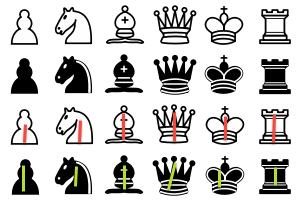
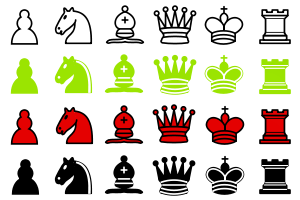
server logic fixes, figure layer on drag fixed, move figures on click implemented

diff --git a/public/js/board.js b/public/js/board.js
@@ -2,26 +2,26 @@ var Board = function(importedBoard){
 	//-2 > No tile drawn // -1 > No figure on tile
 	//stadart constructor if no board is imported
 	if(typeof importedBoard === "undefined") {
-			this.board = [[-2,-2,-2,new Figure(FigureType.ROOK, Color.BLACK),new Figure(FigureType.KNIGHT, Color.BLACK),new Figure(FigureType.BISHOP,Color.BLACK),new Figure(FigureType.KING,Color.BLACK),new Figure(FigureType.QUEEN,Color.BLACK),new Figure(FigureType.BISHOP,Color.BLACK),new Figure(FigureType.KNIGHT,Color.BLACK),new Figure(FigureType.ROOK,Color.BLACK),-2,-2,-2],
-			[-2,-2,-2,new Figure(FigureType.PAWN,Color.BLACK),new Figure(FigureType.PAWN,Color.BLACK),new Figure(FigureType.PAWN,Color.BLACK),new Figure(FigureType.PAWN,Color.BLACK),new Figure(FigureType.PAWN,Color.BLACK),new Figure(FigureType.PAWN,Color.BLACK),new Figure(FigureType.PAWN,Color.BLACK),new Figure(FigureType.PAWN,Color.BLACK),-2,-2,-2],
-			[-2,-2,-2,-1,-1,-1,-1,-1,-1,-1,-1,-2,-2,-2],
-			[new Figure(FigureType.ROOK,Color.RED),new Figure(FigureType.PAWN,Color.RED),-1,-1,-1,-1,-1,-1,-1,-1,-1,-1,new Figure(FigureType.PAWN,Color.GREEN),new Figure(FigureType.ROOK,Color.GREEN)],
-			[new Figure(FigureType.KNIGHT,Color.RED),new Figure(FigureType.PAWN,Color.RED),-1,-1,-1,-1,-1,-1,-1,-1,-1,-1,new Figure(FigureType.PAWN,Color.GREEN),new Figure(FigureType.KNIGHT,Color.GREEN)],
-			[new Figure(FigureType.BISHOP,Color.RED),new Figure(FigureType.PAWN,Color.RED),-1,-1,-1,-1,-1,-1,-1,-1,-1,-1,new Figure(FigureType.PAWN,Color.GREEN),new Figure(FigureType.BISHOP,Color.GREEN)],
-			[new Figure(FigureType.KING,Color.RED),new Figure(FigureType.PAWN,Color.RED),-1,-1,-1,-1,-1,-1,-1,-1,-1,-1,new Figure(FigureType.PAWN,Color.GREEN),new Figure(FigureType.QUEEN,Color.GREEN)],
-			[new Figure(FigureType.QUEEN,Color.RED),new Figure(FigureType.PAWN,Color.RED),-1,-1,-1,-1,-1,-1,-1,-1,-1,-1,new Figure(FigureType.PAWN,Color.GREEN),new Figure(FigureType.KING,Color.GREEN)],
-			[new Figure(FigureType.BISHOP,Color.RED),new Figure(FigureType.PAWN,Color.RED),-1,-1,-1,-1,-1,-1,-1,-1,-1,-1,new Figure(FigureType.PAWN,Color.GREEN),new Figure(FigureType.BISHOP,Color.GREEN)],
-			[new Figure(FigureType.KNIGHT,Color.RED),new Figure(FigureType.PAWN,Color.RED),-1,-1,-1,-1,-1,-1,-1,-1,-1,-1,new Figure(FigureType.PAWN,Color.GREEN),new Figure(FigureType.KNIGHT,Color.GREEN)],
-			[new Figure(FigureType.ROOK,Color.RED),new Figure(FigureType.PAWN,Color.RED),-1,-1,-1,-1,-1,-1,-1,-1,-1,-1,new Figure(FigureType.PAWN,Color.GREEN),new Figure(FigureType.ROOK,Color.GREEN)],
-			[-2,-2,-2,-1,-1,-1,-1,-1,-1,-1,-1,-2,-2,-2],
-			[-2,-2,-2,new Figure(FigureType.PAWN,Color.WHITE),new Figure(FigureType.PAWN,Color.WHITE),new Figure(FigureType.PAWN,Color.WHITE),new Figure(FigureType.PAWN,Color.WHITE),new Figure(FigureType.PAWN,Color.WHITE),new Figure(FigureType.PAWN,Color.WHITE),new Figure(FigureType.PAWN,Color.WHITE),new Figure(FigureType.PAWN,Color.WHITE),-2,-2,-2],
-			[-2,-2,-2,new Figure(FigureType.ROOK,Color.WHITE),new Figure(FigureType.KNIGHT,Color.WHITE),new Figure(FigureType.BISHOP,Color.WHITE),new Figure(FigureType.QUEEN,Color.WHITE),new Figure(FigureType.KING,Color.WHITE),new Figure(FigureType.BISHOP,Color.WHITE),new Figure(FigureType.KNIGHT,Color.WHITE),new Figure(FigureType.ROOK,Color.WHITE),-2,-2,-2]];
+		this.board = [[-2,-2,-2,new Figure(FigureType.ROOK, Color.BLACK),new Figure(FigureType.KNIGHT, Color.BLACK),new Figure(FigureType.BISHOP,Color.BLACK),new Figure(FigureType.KING,Color.BLACK),new Figure(FigureType.QUEEN,Color.BLACK),new Figure(FigureType.BISHOP,Color.BLACK),new Figure(FigureType.KNIGHT,Color.BLACK),new Figure(FigureType.ROOK,Color.BLACK),-2,-2,-2],
+		[-2,-2,-2,new Figure(FigureType.PAWN,Color.BLACK),new Figure(FigureType.PAWN,Color.BLACK),new Figure(FigureType.PAWN,Color.BLACK),new Figure(FigureType.PAWN,Color.BLACK),new Figure(FigureType.PAWN,Color.BLACK),new Figure(FigureType.PAWN,Color.BLACK),new Figure(FigureType.PAWN,Color.BLACK),new Figure(FigureType.PAWN,Color.BLACK),-2,-2,-2],
+		[-2,-2,-2,-1,-1,-1,-1,-1,-1,-1,-1,-2,-2,-2],
+		[new Figure(FigureType.ROOK,Color.RED),new Figure(FigureType.PAWN,Color.RED),-1,-1,-1,-1,-1,-1,-1,-1,-1,-1,new Figure(FigureType.PAWN,Color.GREEN),new Figure(FigureType.ROOK,Color.GREEN)],
+		[new Figure(FigureType.KNIGHT,Color.RED),new Figure(FigureType.PAWN,Color.RED),-1,-1,-1,-1,-1,-1,-1,-1,-1,-1,new Figure(FigureType.PAWN,Color.GREEN),new Figure(FigureType.KNIGHT,Color.GREEN)],
+		[new Figure(FigureType.BISHOP,Color.RED),new Figure(FigureType.PAWN,Color.RED),-1,-1,-1,-1,-1,-1,-1,-1,-1,-1,new Figure(FigureType.PAWN,Color.GREEN),new Figure(FigureType.BISHOP,Color.GREEN)],
+		[new Figure(FigureType.KING,Color.RED),new Figure(FigureType.PAWN,Color.RED),-1,-1,-1,-1,-1,-1,-1,-1,-1,-1,new Figure(FigureType.PAWN,Color.GREEN),new Figure(FigureType.QUEEN,Color.GREEN)],
+		[new Figure(FigureType.QUEEN,Color.RED),new Figure(FigureType.PAWN,Color.RED),-1,-1,-1,-1,-1,-1,-1,-1,-1,-1,new Figure(FigureType.PAWN,Color.GREEN),new Figure(FigureType.KING,Color.GREEN)],
+		[new Figure(FigureType.BISHOP,Color.RED),new Figure(FigureType.PAWN,Color.RED),-1,-1,-1,-1,-1,-1,-1,-1,-1,-1,new Figure(FigureType.PAWN,Color.GREEN),new Figure(FigureType.BISHOP,Color.GREEN)],
+		[new Figure(FigureType.KNIGHT,Color.RED),new Figure(FigureType.PAWN,Color.RED),-1,-1,-1,-1,-1,-1,-1,-1,-1,-1,new Figure(FigureType.PAWN,Color.GREEN),new Figure(FigureType.KNIGHT,Color.GREEN)],
+		[new Figure(FigureType.ROOK,Color.RED),new Figure(FigureType.PAWN,Color.RED),-1,-1,-1,-1,-1,-1,-1,-1,-1,-1,new Figure(FigureType.PAWN,Color.GREEN),new Figure(FigureType.ROOK,Color.GREEN)],
+		[-2,-2,-2,-1,-1,-1,-1,-1,-1,-1,-1,-2,-2,-2],
+		[-2,-2,-2,new Figure(FigureType.PAWN,Color.WHITE),new Figure(FigureType.PAWN,Color.WHITE),new Figure(FigureType.PAWN,Color.WHITE),new Figure(FigureType.PAWN,Color.WHITE),new Figure(FigureType.PAWN,Color.WHITE),new Figure(FigureType.PAWN,Color.WHITE),new Figure(FigureType.PAWN,Color.WHITE),new Figure(FigureType.PAWN,Color.WHITE),-2,-2,-2],
+		[-2,-2,-2,new Figure(FigureType.ROOK,Color.WHITE),new Figure(FigureType.KNIGHT,Color.WHITE),new Figure(FigureType.BISHOP,Color.WHITE),new Figure(FigureType.QUEEN,Color.WHITE),new Figure(FigureType.KING,Color.WHITE),new Figure(FigureType.BISHOP,Color.WHITE),new Figure(FigureType.KNIGHT,Color.WHITE),new Figure(FigureType.ROOK,Color.WHITE),-2,-2,-2]];
 	}
 	else {
 		//import board
 		this.board = [];
 		for(var i=0; i<14;i++){
-				this.board.push([]);
+			this.board.push([]);
 		}
 
 		for(var y = 0; y < 14; y++){
@@ -47,9 +47,9 @@ Board.prototype.exportBoard = function (){
 	for(var y = 0; y < this.board[0].length; y++){
 		for(var x = 0; x < this.board.length; x++){
 			if(this.isFigure(x,y)){
-					newBoard[y][x] = this.board[y][x].exportFigure();
+				newBoard[y][x] = this.board[y][x].exportFigure();
 			} else {
-					newBoard[y][x] = this.board[y][x];
+				newBoard[y][x] = this.board[y][x];
 			}
 		}
 	}

diff --git a/public/js/chess.js b/public/js/chess.js
@@ -1,7 +1,7 @@
 var TILE_SIZE = 50;
 
 $(document).ready(function () {
-    socket = io.connect('http://localhost:63924');
+    socket = io.connect('http://chess.flo-lan.com:63924');
     socket.on('message', function(msg){
         $clientCounter.text(msg.clients);
     });
@@ -13,7 +13,7 @@ $(document).ready(function () {
         myBoard = new Board(serverBoard);
         tryDrawBoard();
     });
-  
+
     pieces = new Image();
     pieces.onload = tryDrawBoard;
     pieces.src = 'img/figures.png';
@@ -31,13 +31,17 @@ $(document).ready(function () {
 });
 
 function setPosition(newPos, figureID){
-    //remove figure if captured
-    if(myBoard.isFigure(tilePos.x, tilePos.y)){
-        removeFigure(newPos);
-    }
     var oldPos = {"x":figureList[figureID].figure.x, "y":figureList[figureID].figure.y};
 
-    figureList[figureID].setPosition(newPos.x*TILE_SIZE, newPos.y*TILE_SIZE);
+    //remove figure if captured
+    if(myBoard.isFigure(newPos.x, newPos.y)){
+        if(oldPos.x !== newPos.x || oldPos.y !== newPos.y)
+            removeFigure(newPos);
+    }
+
+    //figureList[figureID].setPosition(newPos.x * TILE_SIZE , newPos.y * TILE_SIZE);
+    figureList[figureID].setX(newPos.x * TILE_SIZE);
+    figureList[figureID].setY(newPos.y * TILE_SIZE);
     if(oldPos.x !== newPos.x || oldPos.y !== newPos.y)
     myBoard.moveFigureTo(oldPos.x, oldPos.y,newPos.x,newPos.y);
 
@@ -100,7 +104,7 @@ function drawBoard() {
     
     //rotate the board to players color
     //!!!change parameter to current player if available!!!
-    rotateBoard(Color.RED);
+    rotateBoard(Color.WHITE);
 
     stage.add(boardLayer);
     stage.add(moveLayer);
@@ -123,7 +127,11 @@ function drawFigure(x,y) {
     figureLayer.add(figureImage);
     figureList.push(figureImage);
 
-    figureImage.on("dragend", function() {
+    figureImage.on("dragstart", function dragstart(){
+        figureImage.moveToTop();
+    });
+
+    figureImage.on("dragend", function dragend(){
         var pos = figureImage.getPosition();
         var tilePos = getTileFromPosRound(pos.x,pos.y);
         var figureID = figureList.indexOf(figureImage);
@@ -135,7 +143,7 @@ function drawFigure(x,y) {
         }
         else {
             //place figure back to old tile
-            setPosition({"x": oldPos.x * TILE_SIZE, "y": oldPos.y * TILE_SIZE}, figureID);
+            setPosition({"x": oldPos.x, "y": oldPos.y}, figureID);
         }
         stage.draw();
     });
@@ -175,12 +183,13 @@ function rotateBoard(color){
 
 //canvas mousedown event
 function boardClicked(e) {
-    nodePos = e.targetNode.getPosition();
-    tilePos = getTileFromPosRound(nodePos.x, nodePos.y);
+    var nodePos = e.targetNode.getPosition();
+    var tilePos = getTileFromPosRound(nodePos.x, nodePos.y);
 
     if(myBoard.isFigure(tilePos.x, tilePos.y)){
         var possibleMoves = myBoard.board[tilePos.y][tilePos.x].possibleMoves(myBoard);
         moveLayer.removeChildren();
+        moveLayer.currentFigure = e.targetNode;
         for(var i = 0; i< possibleMoves.length; i++){
             var rect = new Kinetic.Rect({
                 x: possibleMoves[i].x * TILE_SIZE,
@@ -191,6 +200,17 @@ function boardClicked(e) {
             });
 
             moveLayer.add(rect);
+        }
+    } else {
+        var moveLayerChildren = moveLayer.getChildren();
+        for(var i = 0; i < moveLayerChildren.length; i++) {
+            //click on tile, which is possible to move to
+            if(moveLayerChildren[i].getPosition().x == nodePos.x && moveLayerChildren[i].getPosition().y == nodePos.y) {
+                var clickedFigure = moveLayer.currentFigure;
+                var figureID = figureList.indexOf(clickedFigure);
+                var oldPos = {'x':clickedFigure.getPosition().x / TILE_SIZE, 'y':clickedFigure.getPosition().y / TILE_SIZE};
+                socket.emit('sendPosition',{"x":oldPos.x,"y":oldPos.y},{"x":tilePos.x,"y":tilePos.y},figureID);
+            }
         }
     }
     moveLayer.draw();
@@ -220,11 +240,11 @@ function getFigureFromSpritesheet(figure) {
 
     if(figure.color == Color.WHITE)
         y = 0;
-    else if(figure.color == Color.BLACK)
+    else if(figure.color == Color.GREEN)
         y = 1;
     else if(figure.color == Color.RED)
         y = 2;
-    else if(figure.color == Color.GREEN)
+    else if(figure.color == Color.BLACK)
         y = 3;
 
     var position = {

diff --git a/public/index.html b/public/index.html
@@ -6,7 +6,7 @@
             <link rel="stylesheet" type="text/css" href="css/style.css">
             <script src="/socket.io/socket.io.js"></script>
             <script src='js/jquery-1.10.2.min.js'></script>
-
+            <script src='js/kinetic-v4.7.2.min.js'></script>
             <script src='js/color.js'></script>
             <script src='js/figureType.js'></script>
             <script src='js/figure.js'></script>
@@ -14,9 +14,9 @@
             <script src='js/chess.js'></script>
     </head>
     <body>
-
+        <h2>Early Alpha</h2>
         <p><span id='client_count'>0</span> connected clients</p>
-         <div id="sidebar">
+         <!--<div id="sidebar">
             <div id="rules">
                 <h1>#1 - Aufgehobenes Matt</h1>
                 <p>Falls ein Spieler aus dem Matt herauskommt, muss er als erstes auf Schachgebote reagieren. Falls ein solcher Spieler z. B. eine starke Figur des linken Gegners schlagen könnte, jedoch im Schach durch eine Figur des rechten Gegners steht, muss er zuerst auf das Schach reagieren, selbst wenn sein Partner dieses Schachgebot beseitigen könnte, bevor der rechte Spieler dran ist. Wenn ein Spieler während des Spiels aus dem Matt herauskommt, z. B. indem sein Partner dabei hilft, haben seine Figuren den Status "aufgetaut". Diese können dann erst geschlagen werden, nachdem der aufgetaute Spieler erstmals wieder gezogen hat. Ansonsten wäre es zu leicht, den Matt gesetzten Spieler rundenweise auszuschlachten, da er immer erst auf das Schach reagieren muss und seine angegriffenen Figuren nicht retten kann.</p>
@@ -27,7 +27,7 @@
                 <br/>
             </div>
         </div>
-        <div id='canvas'> </div>
-        <script src='js/kinetic-v4.7.2.min.js'></script>
+        -->
+        <div id='canvas'> </div>   
     </body>
 </html>

diff --git a/app.js b/app.js
@@ -4,7 +4,7 @@ var express = require('express'),
   , server = http.createServer(app)
   , io = require('socket.io').listen(server);
 
-//io.set('transports', [ 'htmlfile', 'xhr-polling', 'jsonp-polling' ]);
+io.set('transports', [ 'htmlfile', 'xhr-polling', 'jsonp-polling' ]);
 
 // listen for new web clients:
 server.listen(63924);
@@ -42,19 +42,20 @@ io.sockets.on('connection',function(socket){
 });
 
 function setPosition(oldPos, newPos, figureIndex){
-  console.log("oldx: "+oldPos.x+" oldy: "+oldPos.y+ " newX: "+newPos.x+ " newY: "+newPos.y);
-  if(myBoard.isPossibleToMove(oldPos, newPos)){
-      //look if another a figure is already on the tile
-      if(myBoard.isFigure(newPos.x, newPos.y)){
-          myBoard.board[newPos.y][newPos.x] = -1;
-      }
-      myBoard.moveFigureTo(oldPos.x, oldPos.y,newPos.x,newPos.y);
+    console.log("oldx: "+oldPos.x+" oldy: "+oldPos.y+ " newX: "+newPos.x+ " newY: "+newPos.y);
+    if(myBoard.isPossibleToMove(oldPos, newPos)){
+        //look if another a figure is already on the tile
+        if(myBoard.isFigure(newPos.x, newPos.y)){
+            myBoard.board[newPos.y][newPos.x] = -1;
+        }
+        myBoard.moveFigureTo(oldPos.x, oldPos.y,newPos.x,newPos.y);
 
-      if(myBoard.isEnPassant()){
-          myBoard.board[newPos.y][newPos.x] = -1;
-      }
-      io.sockets.emit('setPosition',newPos, figureIndex);
-  }
+        if(myBoard.isEnPassant()){
+            myBoard.board[newPos.y][newPos.x] = -1;
+        }
+
+        io.sockets.emit('setPosition',newPos, figureIndex);
+    }
 }
 
 function joinRoom(description, socket){

diff --git a/public/js/figure.js b/public/js/figure.js
@@ -18,7 +18,7 @@ Figure.prototype.importFigure = function(importFigure){
     this.x = importFigure.x;
     this.y = importFigure.y;
     this.hasMoved = importFigure.hasMoved;
-    this.enPassant = importFigure.haseMoved;
+    this.enPassant = importFigure.enPassant;
 };
 
 Figure.prototype.exportFigure = function(){
@@ -44,7 +44,7 @@ Figure.prototype.setPosition = function(newX, newY){
         }
     }
     if(this.type == FigureType.PAWN && ((this.x + 2 * this.inFront().x === newX && this.inFront().x !== 0) ||
-        (this.y + 2 * this.inFront().y === newY  && this.inFront().y !== 0))){
+        (this.y + 2 * this.inFront().y === newY && this.inFront().y !== 0))){
         this.enPassant = true;
     }
     this.x = newX;
